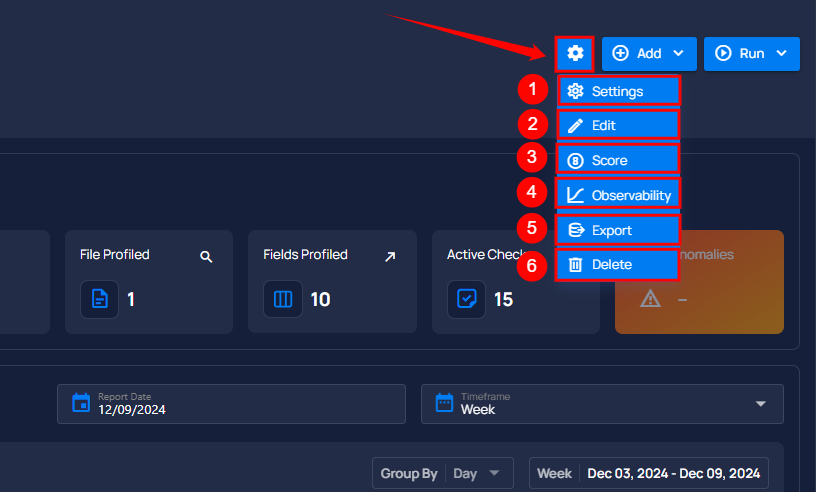
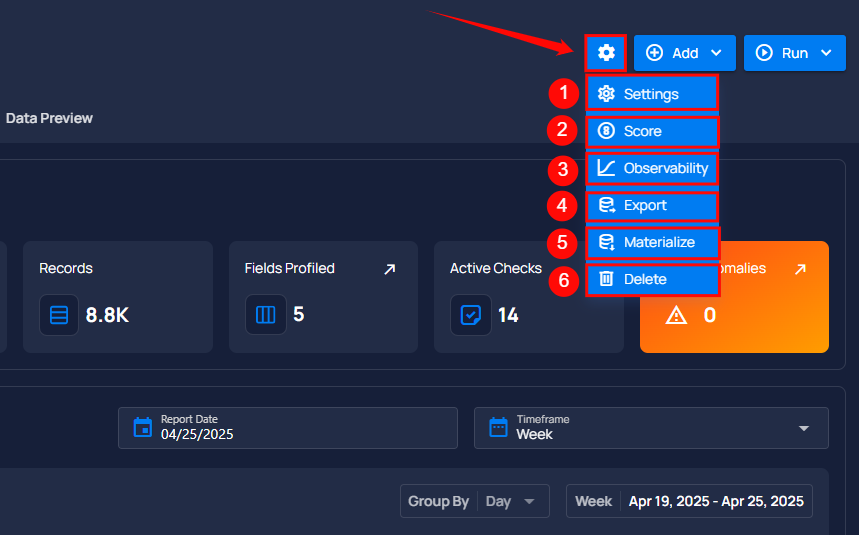
QUA-475: Update "Containers Overview" file.

diff --git a/docs/container/container.md b/docs/container/container.md
@@ -73,10 +73,10 @@ Users can perform various operations on containers to manage datasets effectivel
 | No. |           Options |                                Description |
 | :---- | :---- | :---- |
 | **1.** |        Settings | Configure incremental strategy, partitioning fields, and exclude specific fields from analysis. |
-| **2.** |          Edit | Edit allowing you edit computed file/table to modify the file name, select expressions, and apply filter clauses. |
-| **3.** |         Score | Score allowing you to adjust the decay period and factor weights for metrics like completeness, accuracy, and consistency. |
-| **4.** |     Observability | Enables or disables tracking for data volume and freshness.<br> **Volume Tracking:** Monitors daily volume metrics to identify trends and detect anomalies over time.<br>**Freshness Tracking:** Records the last update timestamp to ensure data timeliness and detect pipeline delays. |
-| **5.** |         Export | Export quality checks, field profiles and Anomalies to an enrichment datastore for further action or analysis. |
+| **2.** |         Score | Score allowing you to adjust the decay period and factor weights for metrics like completeness, accuracy, and consistency. |
+| **3.** |     Observability | Enables or disables tracking for data volume and freshness.<br> **Volume Tracking:** Monitors daily volume metrics to identify trends and detect anomalies over time.<br>**Freshness Tracking:** Records the last update timestamp to ensure data timeliness and detect pipeline delays. |
+| **4.** |         Export | Export quality checks, field profiles and Anomalies to an enrichment datastore for further action or analysis. |
+| **5.** |         Materialize | Captures snapshots of data from a source datastore and exports it to an enrichment datastore for faster access and analysis. |
 | **6.** |         Delete | Delete the selected container from the system. |
 
 ### Add
